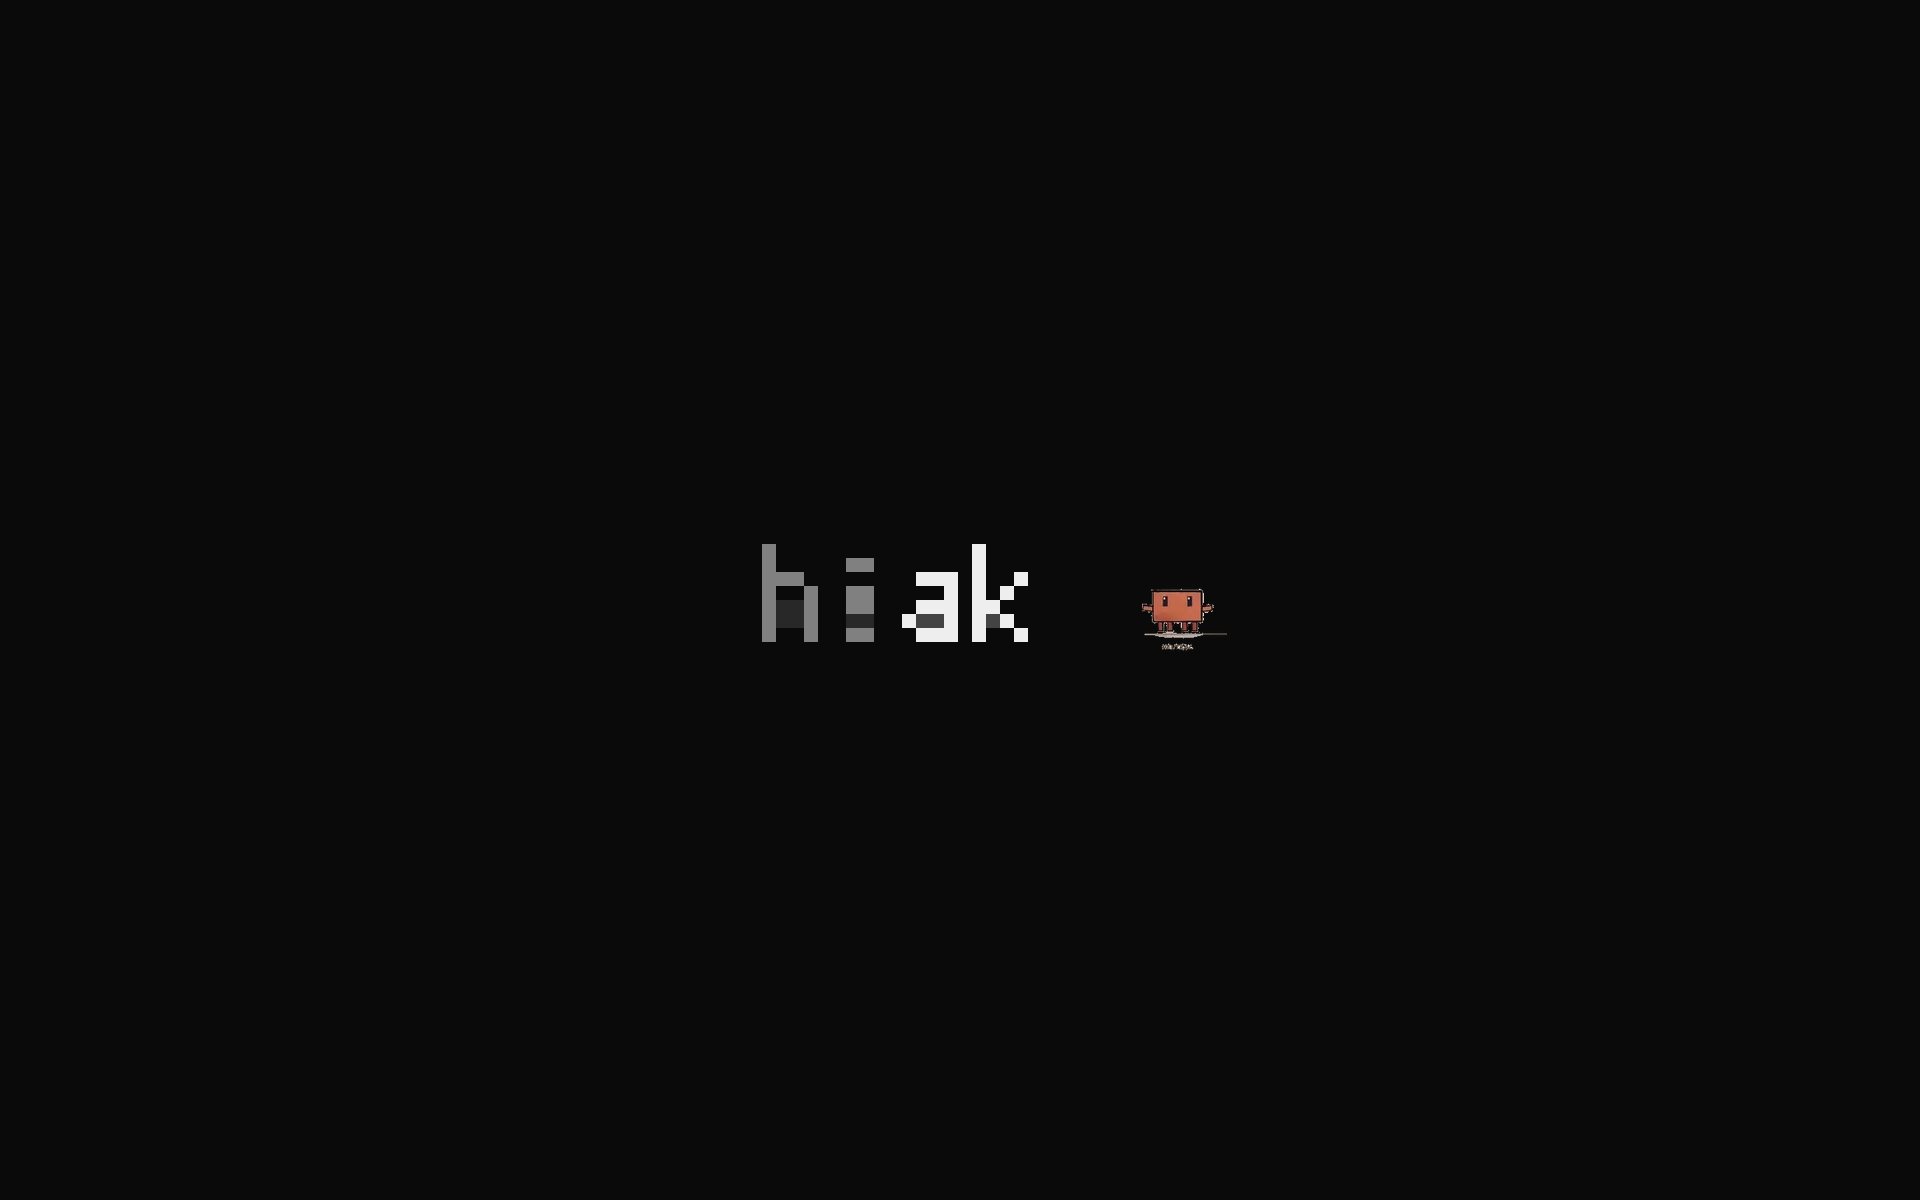
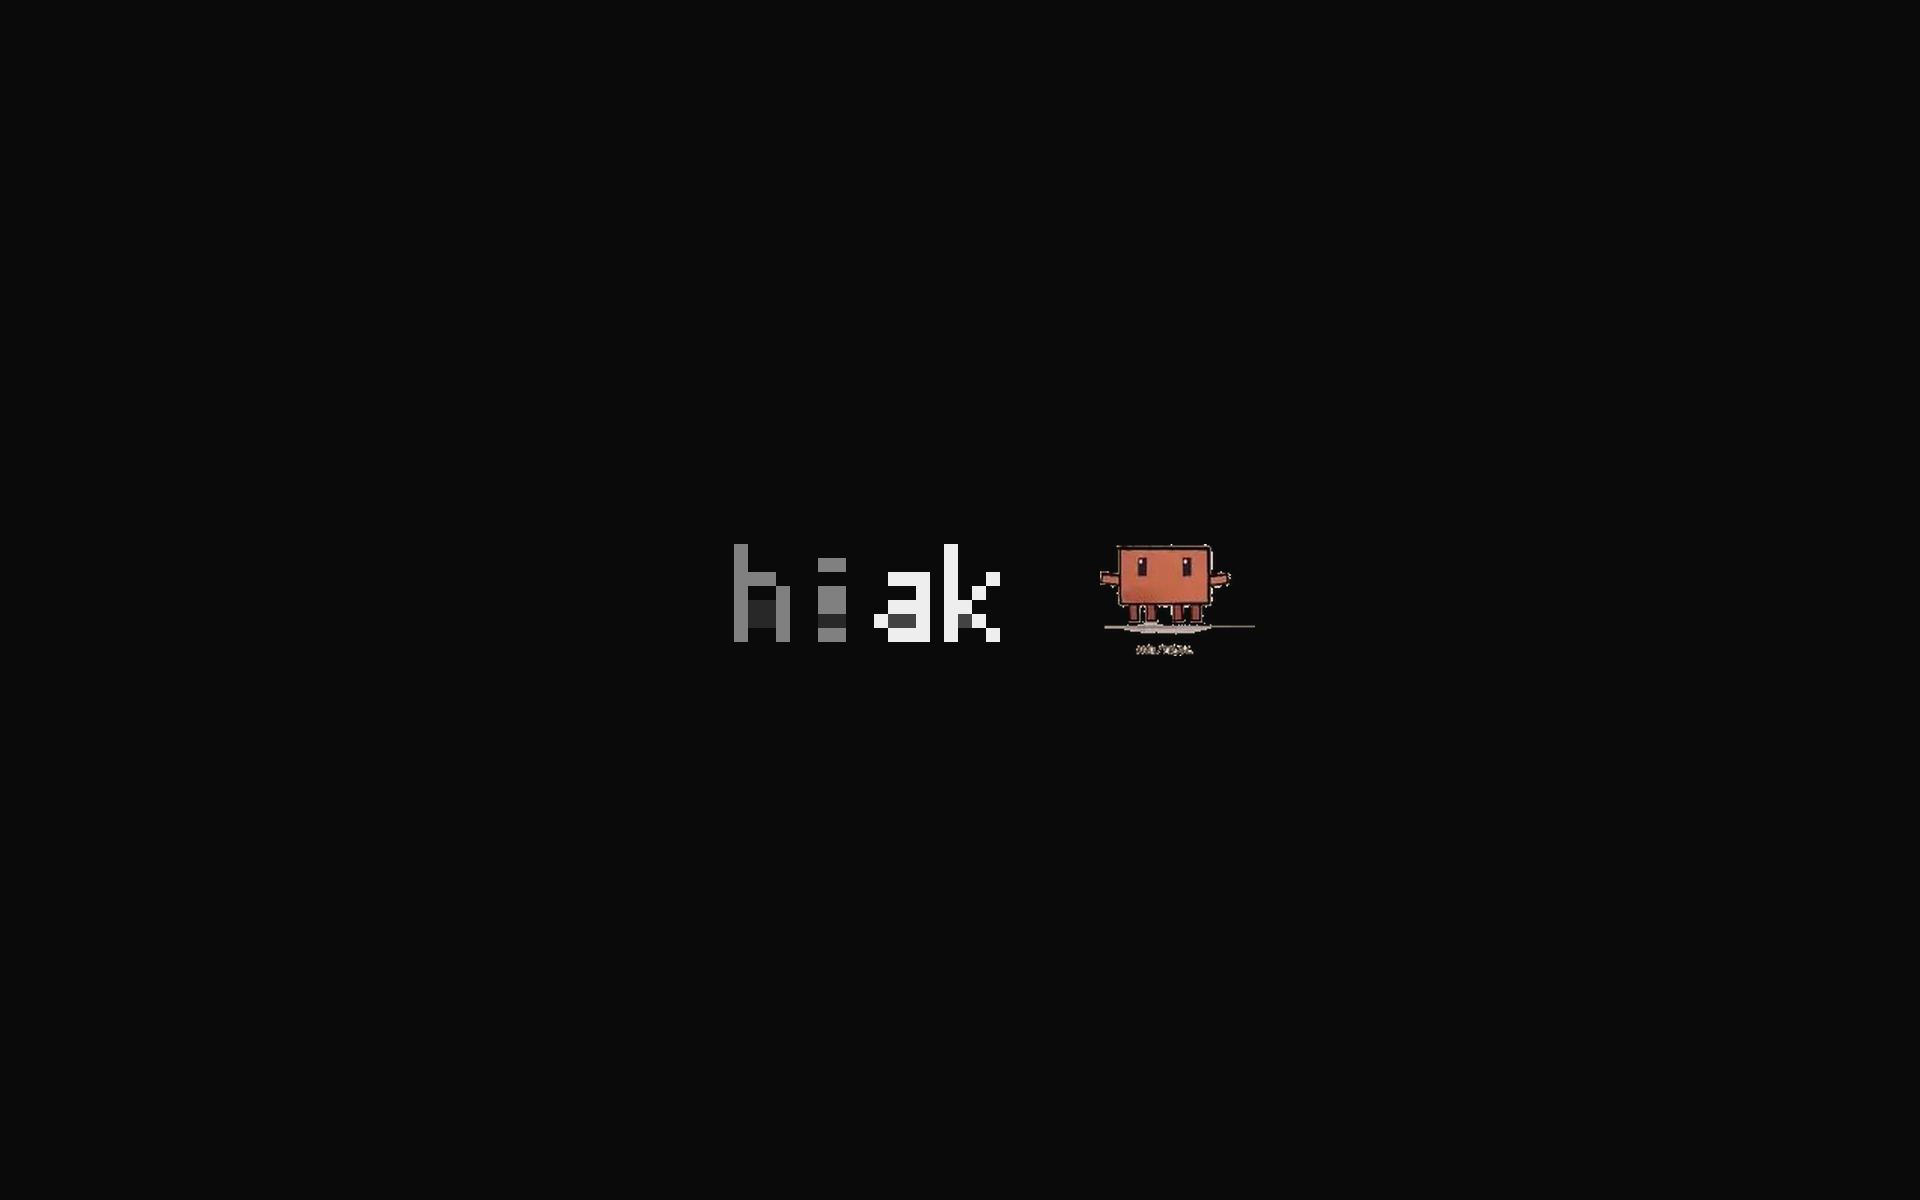
Scale Brown Claude mascot to equal 112px height matching Cyber-Bot; add instant screensaver preview options and v3 GIF

Changed region(s): [[0.375, 0.4317, 0.5312, 0.555], [0.5625, 0.4317, 0.6562, 0.555]]

diff --git a/core/reformat_wallpapers.py b/core/reformat_wallpapers.py
@@ -3,6 +3,11 @@ Reformat Wallpaper Suite for Medium Scale & Exact 1920x1200 Center Alignment
 DESIGNATED MASCOTS:
 - HIAK: Designated Brown Claude Mascot (assets/mascots/claude/)
 - HARSHA: Designated Option 4 Floating Cyber-Bot (assets/mascots/cyber_bot/)
+
+EQUAL SIZING:
+- Auto-crops transparent borders from both mascots so they have identical visual height (112px).
+- Claude and Cyber-Bot are both matched to the exact height of the OpenCode logo!
+
 STRICT DISPLAY RULE:
 - BEFORE hover / default state: Shows HIAK with designated Brown Claude Mascot
 - WHILE ANIMATING / PIXELATING: Shows ONLY the glitching/dissolving PIXELS! NO CARTOON MASCOT AT ALL!
@@ -74,10 +79,17 @@ def composite_centered(text_img: Image.Image, mascot_img: Image.Image = None, ca
     canvas = Image.new("RGB", (canvas_w, canvas_h), BG)
     
     if mascot_img is not None:
-        # Scale mascot to match TARGET_H (112px)
-        m_ratio = TARGET_H / mascot_img.height
-        target_w = int(mascot_img.width * m_ratio)
-        scaled_mascot = mascot_img.resize((target_w, TARGET_H), Image.Resampling.LANCZOS)
+        # Auto-crop content bounding box to eliminate empty border padding
+        bbox = mascot_img.getbbox()
+        if bbox:
+            cropped = mascot_img.crop(bbox)
+        else:
+            cropped = mascot_img
+            
+        # Scale cropped mascot so its actual height is TARGET_H (112px) - matching text height & Cyber-Bot!
+        m_ratio = TARGET_H / cropped.height
+        target_w = int(cropped.width * m_ratio)
+        scaled_mascot = cropped.resize((target_w, TARGET_H), Image.Resampling.LANCZOS)
         
         # Calculate center bounding box for text + mascot
         total_w = text_img.width + SPACING + target_w
@@ -96,12 +108,12 @@ def composite_centered(text_img: Image.Image, mascot_img: Image.Image = None, ca
 
 
 def reformat_all():
-    print("📐 Reformatting wallpapers with Brown Claude Mascot for HIAK & Option 4 Cyber-Bot for HARSHA...")
+    print("📐 Reformatting wallpapers with EQUAL-SIZED Brown Claude Mascot & Option 4 Cyber-Bot...")
     
     # 1. Base HIAK logo at scale 14
     hiak_logo = render_opencode_image("hiak", scale=SCALE, bg_color=None)
     
-    # 2. Re-render 7 HIAK poses in assets/wallpapers/poses with the Brown Claude Mascot!
+    # 2. Re-render 7 HIAK poses with the full-sized Brown Claude Mascot!
     POSES_DIR.mkdir(parents=True, exist_ok=True)
     pose_files = [
         ("1_neutral.png", "neutral.png"),
@@ -116,19 +128,16 @@ def reformat_all():
         m_img = make_claude_transparent(CLAUDE_DIR / m_file)
         wp = composite_centered(hiak_logo, m_img)
         wp.save(str(POSES_DIR / out_name), quality=95)
-    print("  ✅ 7 HIAK desktop poses updated with Brown Claude Mascot (1920x1200 medium centered)")
+    print("  ✅ 7 HIAK desktop poses updated (Brown Claude mascot scaled to equal height 112px)")
 
     # 3. Morph Sequence:
-    # HIAK: Brown Claude Mascot (neutral.png)
-    # HARSHA: Option 4 Cyber-Bot (happy.png)
-    # Intermediate frames: PURE PIXELS ONLY! No mascot!
     MORPH_DIR.mkdir(parents=True, exist_ok=True)
     
     claude_img = make_claude_transparent(CLAUDE_DIR / "neutral.png")
     cyber_bot_img = Image.open(str(BOT_DIR / "happy.png")).convert("RGBA")
 
     stages = [
-        # Frame 0: BEFORE hover -> Pure HIAK + Designated Brown Claude Mascot
+        # Frame 0: BEFORE hover -> Pure HIAK + Full-sized Brown Claude Mascot
         (0.0, claude_img, "1_1_hiak_solid.png"),
         # Frame 1: WHILE ANIMATING -> PURE PIXELS ONLY! NO MASCOT!
         (0.25, None, "3_3_dissolve_start.png"),
@@ -136,7 +145,7 @@ def reformat_all():
         (0.55, None, "4_4_glitch_midway.png"),
         # Frame 3: RESOLVING INTO HARSHA -> PURE PIXELS ONLY! NO MASCOT!
         (0.85, None, "5_5_harsha_forming.png"),
-        # Frame 4: AFTER hover -> Pure HARSHA + Designated Option 4 Cyber-Bot!
+        # Frame 4: AFTER hover -> Pure HARSHA + Full-sized Option 4 Cyber-Bot!
         (1.0, cyber_bot_img, "6_6_harsha_cyber_bot_coding.png"),
         # Frame 5: WHILE RETURNING -> PURE PIXELS ONLY! NO MASCOT!
         (0.65, None, "8_8_morph_return.png"),
@@ -156,11 +165,11 @@ def reformat_all():
     frames_1200p[0].save(str(MORPH_DIR / "2_2_hiak_cool.png"))
     frames_1200p[4].save(str(MORPH_DIR / "7_7_harsha_cyber_bot_happy.png"))
 
-    # Save animated morph GIFs (both hiak_harsha_morph.gif and v2) with explicit disposal=2
+    # Save animated morph GIFs (hiak_harsha_morph.gif, v2, v3) with disposal=2
     durations = [2400, 140, 160, 180, 2800, 160, 180]
     disposals = [2] * len(frames_1200p)
     
-    for fname in ["hiak_harsha_morph.gif", "hiak_harsha_morph_v2.gif"]:
+    for fname in ["hiak_harsha_morph.gif", "hiak_harsha_morph_v2.gif", "hiak_harsha_morph_v3.gif"]:
         gif_path = WALLPAPERS_DIR / fname
         frames_1200p[0].save(
             str(gif_path),
@@ -171,7 +180,7 @@ def reformat_all():
             loop=0,
             optimize=False
         )
-    print("  ✅ Morph sequence & animated GIFs updated with Brown Claude mascot & pure pixels!")
+    print("  ✅ All GIF versions generated with disposal=2 and equal character sizes!")
 
 
 if __name__ == "__main__":

diff --git a/core/screensaver.py b/core/screensaver.py
@@ -1,8 +1,8 @@
 """
 Windows Screen Saver Manager
 Provides full integration for Windows screensaver:
-1. Native Fullscreen Animated Player (Tkinter 60fps)
-2. Windows System Screensaver Configuration (Control Panel & Registry)
+1. Native Fullscreen Animated Player (Tkinter 60fps) - instant preview
+2. Windows System Screensaver Configuration & Instant Test Mode
 """
 import os
 import subprocess
@@ -15,9 +15,19 @@ sys.path.insert(0, str(STUDIO_ROOT))
 
 
 def launch_screensaver_player():
-    """Launches the dedicated fullscreen Python screensaver player."""
+    """Launches the dedicated fullscreen Python screensaver player instantly."""
     player_script = STUDIO_ROOT / "core" / "screensaver_player.py"
     subprocess.Popen([sys.executable, str(player_script)])
+
+
+def test_windows_screensaver():
+    """Triggers the Windows system screensaver in fullscreen test mode instantly."""
+    system32 = Path(os.environ.get("WINDIR", "C:/Windows")) / "System32"
+    photo_scr = system32 / "PhotoScreensaver.scr"
+    if photo_scr.exists():
+        subprocess.Popen([str(photo_scr), "/s"])
+    else:
+        launch_screensaver_player()
 
 
 def open_screensaver_settings():
@@ -50,12 +60,17 @@ def configure_windows_screensaver(timeout_minutes: int = 5):
     except Exception as e:
         print(f"⚠ Screensaver registry note: {e}")
 
-    # Also open settings so user can see it verified
     open_screensaver_settings()
 
 
 if __name__ == "__main__":
-    if len(sys.argv) > 1 and sys.argv[1].lower() in ["settings", "setup"]:
-        configure_windows_screensaver()
+    if len(sys.argv) > 1:
+        arg = sys.argv[1].lower()
+        if arg in ["settings", "setup"]:
+            configure_windows_screensaver()
+        elif arg in ["win", "windows", "system"]:
+            test_windows_screensaver()
+        else:
+            launch_screensaver_player()
     else:
         launch_screensaver_player()
